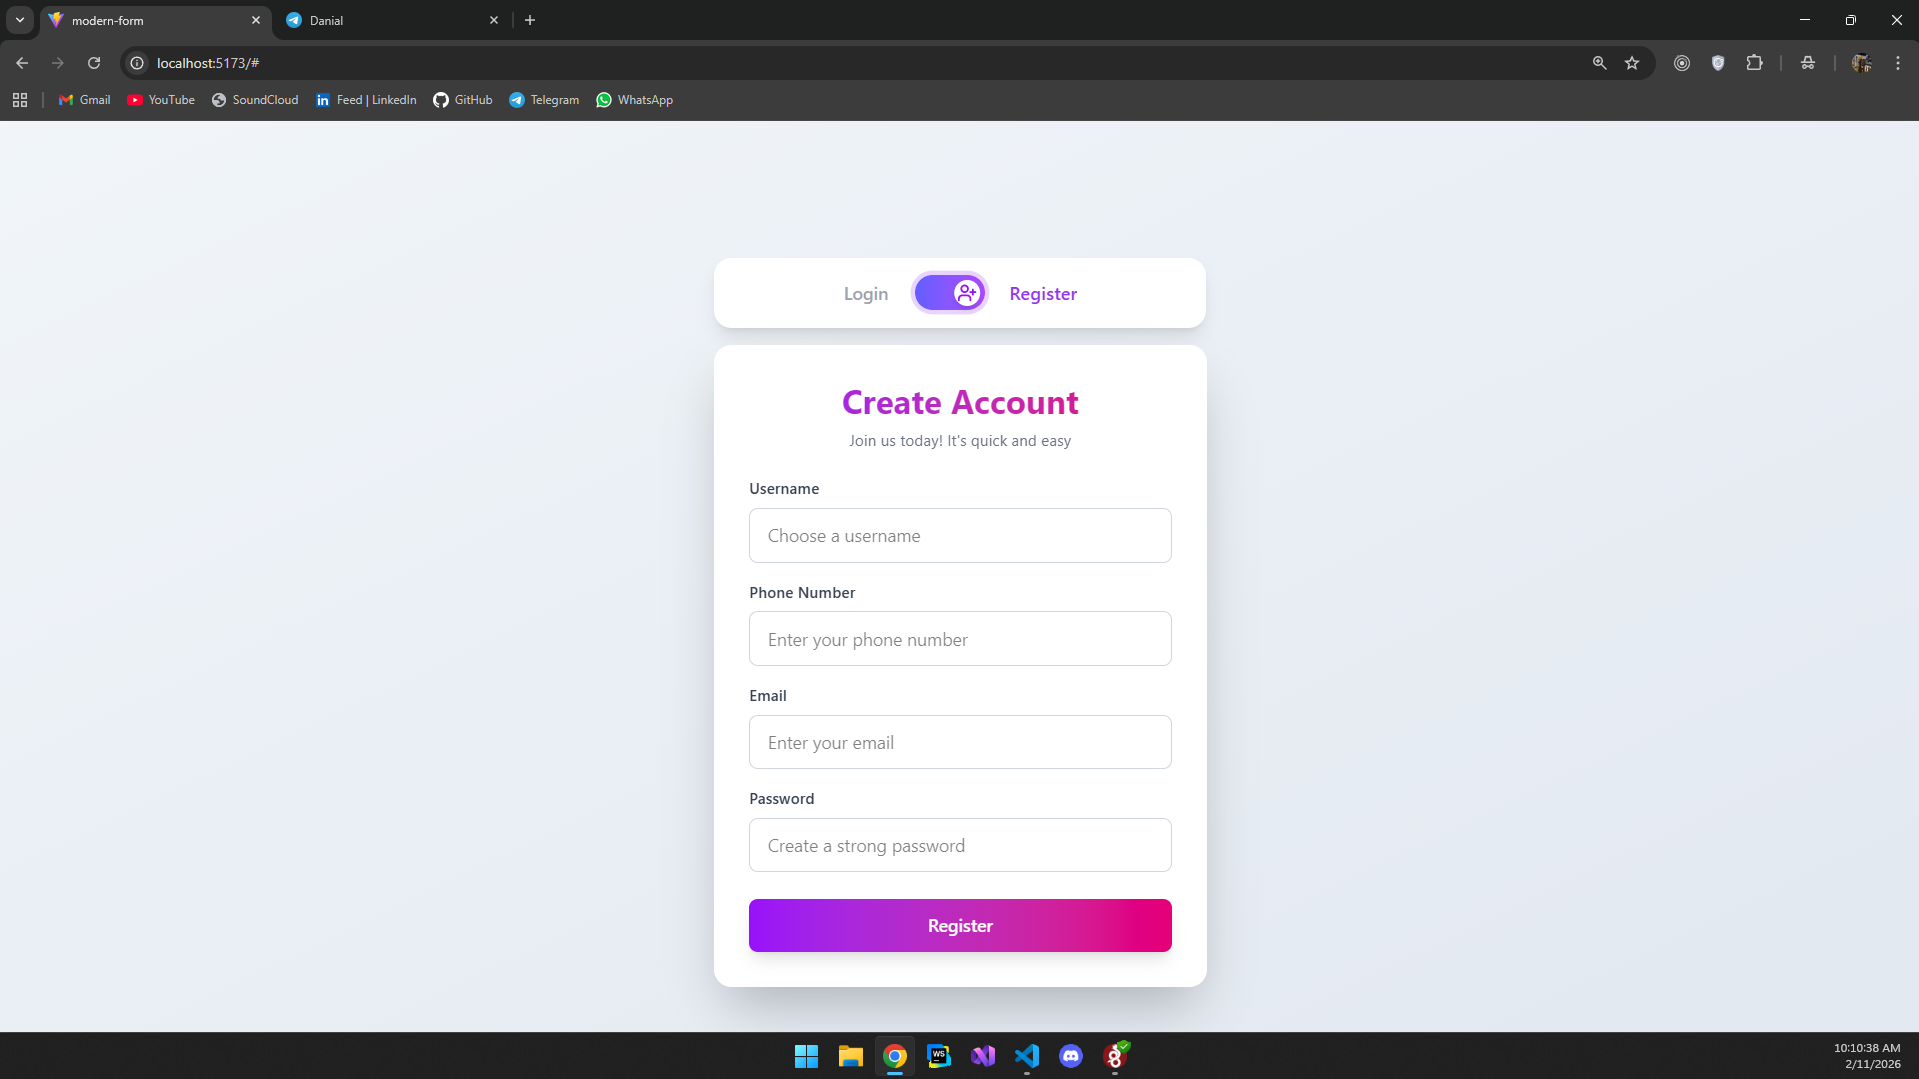
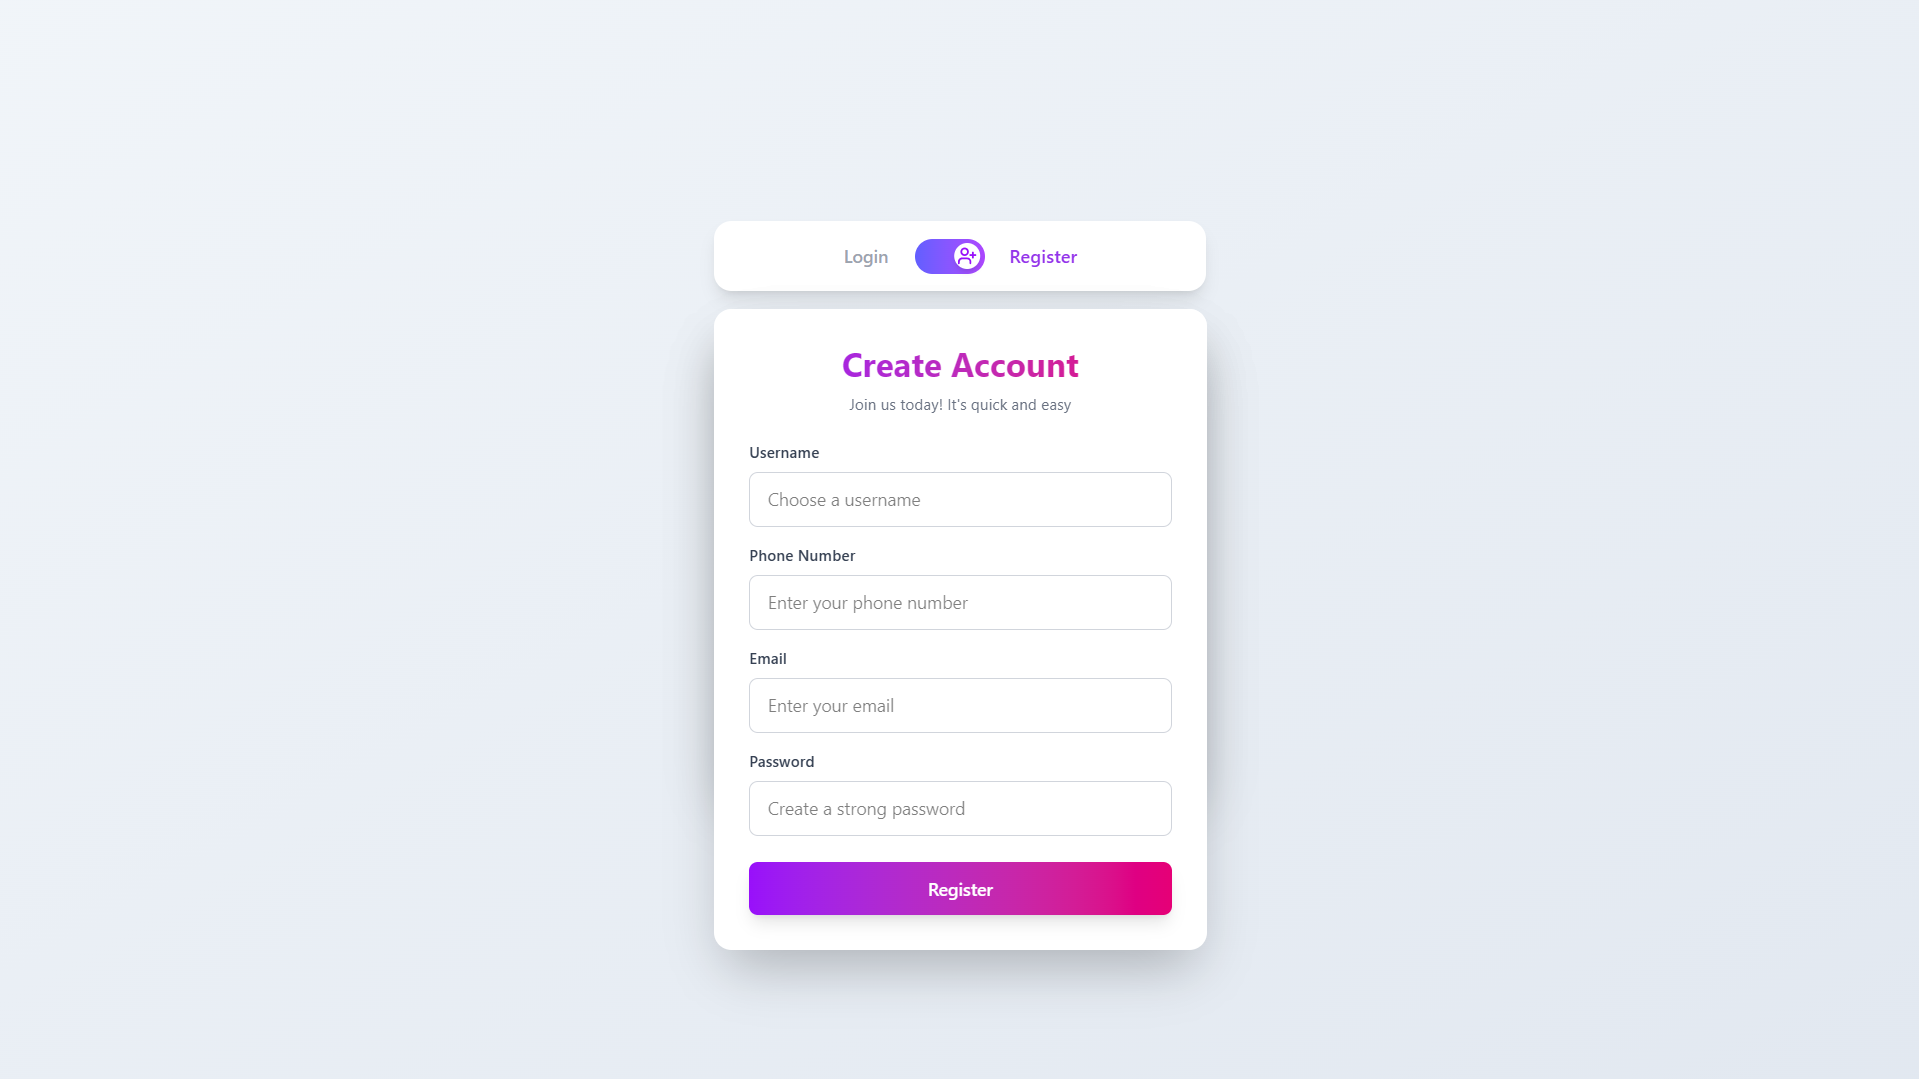
change readme pictures

diff --git a/README.md b/README.md
@@ -2,8 +2,8 @@
 
 3D flip authentication UI with animated transition between login and register forms.
 
-![Preview](./public/screenshots/Login.png)
-![Preview](./public/screenshots/Register.png)
+![Preview](./public/screenshots/login.png)
+![Preview](./public/screenshots/register.png)
 
 ## Features
 
